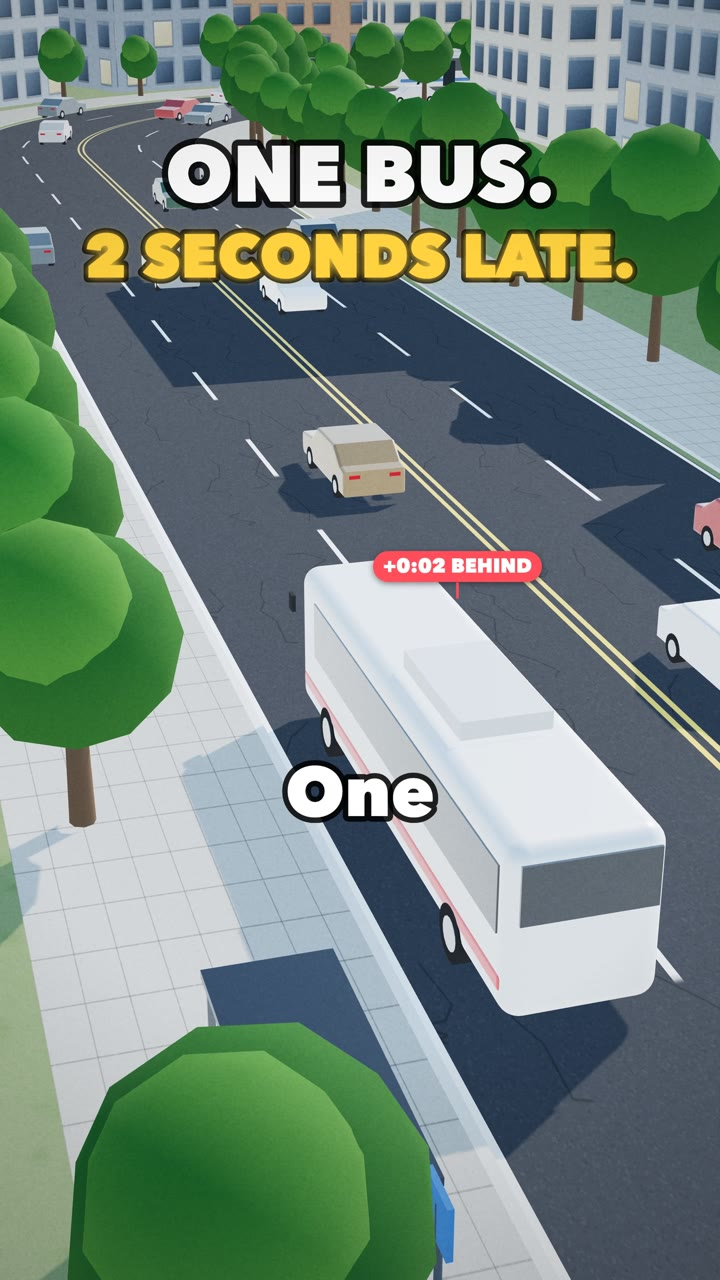
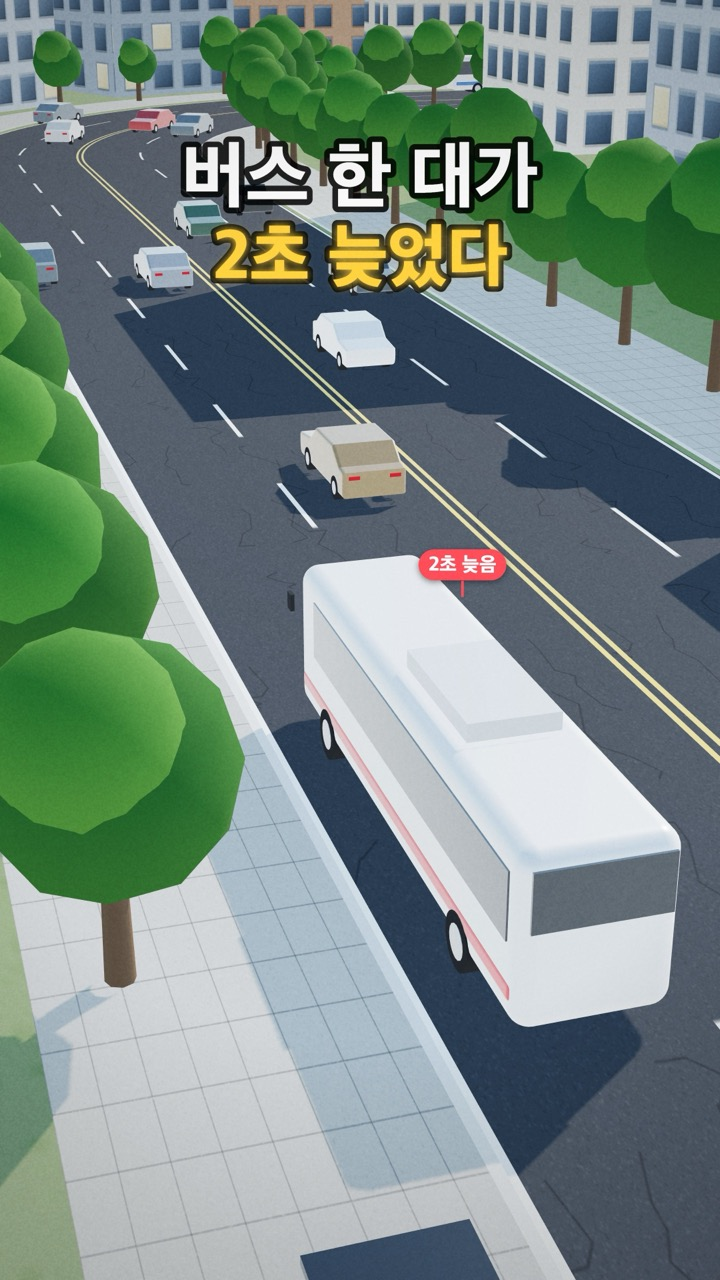
3편 그림 4장 한국어 장면으로(영어 단어 자막 없이), '6시간 뒤' 그림을 캡션과 맞춤

diff --git a/docs/essays/index.html b/docs/essays/index.html
@@ -3,7 +3,7 @@
 <meta property="og:title" content="작성 대기실 | 실험 뒤의 생각"><meta property="og:description" content="실험 뒤의 생각 · 작성 대기"><meta property="og:image" content="https://heekeunlee.github.io/simulatiolab_blog/img/qr/01-card.jpg"><meta property="og:type" content="article">
 <link rel="alternate" type="application/rss+xml" title="시뮬라티오 랩 블로그" href="../rss.xml">
 <link rel="preconnect" href="https://fonts.googleapis.com"><link href="https://fonts.googleapis.com/css2?family=Nanum+Myeongjo:wght@400;700;800&family=Nanum+Gothic:wght@400;700;800&display=swap" rel="stylesheet">
-<link rel="stylesheet" href="../style.css?v=202611201055"><meta name="robots" content="noindex,nofollow"></head><body>
+<link rel="stylesheet" href="../style.css?v=202611201059"><meta name="robots" content="noindex,nofollow"></head><body>
 <header class="top"><a class="brand" href="../"><span class="logo">S</span>시뮬라티오 랩 블로그</a><nav><a href="../">글 목록</a><a href="https://simulatiolab.com" target="_blank" rel="noopener">실험실</a><a href="https://www.youtube.com/@simulatiolab" target="_blank" rel="noopener">유튜브</a><a href="../dashboard.html">대시보드</a></nav></header>
 <main class="post"><div class="cat">네이버 블로그 카테고리 · 작성 대기실</div><h1>실험 뒤의 생각</h1><p class="sub">인문학적 메시지 · 일상 속 인사이트 · 작은 글, 큰 울림</p>
 <article id="body"><p>실험실 글이 "왜 그럴까"에 숫자로 답한다면, 이 칸은 그 답을 들고 한 걸음 더 들어간다. <b>그래서 우리는 어떻게 살아야 할까.</b> 숫자는 내려놓고, 사람과 역사와 오래된 책 속에서 같은 모양을 찾는다.</p>
@@ -15,4 +15,4 @@
 <ul><li>1,200~1,800자. 소제목 3~4개. 한 문장이 한 줄(네이버 옮기기에서 자동)</li><li>결론을 설교하지 않는다. <b>장면이나 혼잣말로 끝낸다</b></li><li>글 끝 가까이 오래 남을 한 문장(`!!`) 하나</li><li>마지막 줄은 실험 링크 하나로 조용히 연결</li></ul>
 <h3>올리는 법</h3>
 <ul><li>네이버 카테고리 <b>실험 뒤의 생각</b> · 주제 <b>일상·생각</b> · 주 1편</li><li>짝이 되는 실험 글이 공개된 <b>다음 날 21:00</b> 예약</li><li>태그: 인문학에세이, 일상철학, 생각, 에세이, 사상가·책 이름, 주제어, 실험뒤의생각, 시뮬라티오랩</li><li>이 칸의 글은 <b>네이버가 원본</b>이다. 깃허브 페이지는 대기실이라 검색엔진에 보이지 않게 둔다(noindex)</li></ul><h3>글 목록 (1/12)</h3><ol class="essays" style="list-style:none;padding:0"><li><b>1.</b> <a href="nobody/">아무도 잘못하지 않았는데, 왜 모두가 늦을까</a> <span class="ok">✍ 대기</span><br><small>짝 실험 글 <a href="../p/phantom-jam/">phantom-jam</a> · 범인 없는 손해 · 톨스토이 『전쟁과 평화』의 작은 의지들 · 아렌트 &#x27;아무도 아닌 자의 지배&#x27;</small></li><li><b>2.</b> 기록되지 않은 사람들 <span class="todo">· 아직</span><br><small>짝 실험 글 <a href="../p/survivor/">survivor</a> · 역사는 살아남은 쪽이 쓴다 · 이름 없는 무덤 · 실패담이 사라지는 세상에서 나를 덜 탓하기</small></li><li><b>3.</b> 함께 가려면 간격이 필요하다 <span class="todo">· 아직</span><br><small>짝 실험 글 <a href="../p/bus-bunching/">bus-bunching</a> · 쇼펜하우어의 고슴도치 · 너무 가까워서 함께 늦는 관계 · 거리를 두는 다정함</small></li><li><b>4.</b> 눈총이라는 보이지 않는 법 <span class="todo">· 아직</span><br><small>짝 실험 글 <a href="../p/queue/">queue</a> · 『논어』 부끄러움을 아는 다스림 · 법보다 먼저 있는 눈길 · 한 사람의 시선이 가진 힘</small></li><li><b>5.</b> 운을 실력으로 읽을 때 <span class="todo">· 아직</span><br><small>짝 실험 글 <a href="../p/regression/">regression</a> · 새옹지마 · 칭찬과 꾸중보다 오래 가는 것 · 좋은 날과 나쁜 날을 덜 믿기</small></li><li><b>6.</b> 천천히 서둘러라 <span class="todo">· 아직</span><br><small>짝 실험 글 <a href="../p/greenwave/">greenwave</a> · 페스티나 렌테 · 토끼와 거북 다시 읽기 · 빨리 가는 것과 멈추지 않는 것</small></li><li><b>7.</b> 충분히 좋은 것의 지혜 <span class="todo">· 아직</span><br><small>짝 실험 글 <a href="../p/secretary/">secretary</a> · 허버트 사이먼의 &#x27;만족하기&#x27; · 더 나은 것을 기다리다 놓치는 것들</small></li><li><b>8.</b> 가진 자는 더 받으리라 <span class="todo">· 아직</span><br><small>짝 실험 글 <a href="../p/wealth/">wealth</a> · 머튼이 이름 붙인 마태 효과 · 출발선의 작은 차이 · 운이 좋았다고 말할 줄 아는 사람</small></li><li><b>9.</b> 옆 줄은 언제나 빨라 보인다 <span class="todo">· 아직</span><br><small>짝 실험 글 <a href="../p/checkout/">checkout</a> · 남의 떡 · 비교하는 마음의 착시 · 내 줄에 머무는 연습</small></li><li><b>10.</b> 덜어 내야 나아지는 것들 <span class="todo">· 아직</span><br><small>짝 실험 글 <a href="../p/braess/">braess</a> · 생텍쥐페리의 &#x27;뺄 것이 없을 때&#x27; · 더하기만 하는 삶의 정체</small></li><li><b>11.</b> 조금씩 원했을 뿐인데 <span class="todo">· 아직</span><br><small>짝 실험 글 <a href="../p/schelling/">schelling</a> · 작은 선호가 쌓아 올린 담 · 끼리끼리의 편안함과 그 대가</small></li><li><b>12.</b> 모두가 피하면 모두가 몰린다 <span class="todo">· 아직</span><br><small>짝 실험 글 <a href="../p/bar/">bar</a> · 남과 다르게 생각한다는 착각 · 군중 속 혼자의 판단</small></li></ol></article></main><footer class="foot">시뮬라티오 랩 · Lab장 · <a href="https://simulatiolab.com" target="_blank" rel="noopener">simulatiolab.com</a> · <a href="../rss.xml">RSS</a></footer>
-<script src="../app.js?v=202611201055"></script></body></html>
+<script src="../app.js?v=202611201059"></script></body></html>

diff --git a/docs/essays/nobody/index.html b/docs/essays/nobody/index.html
@@ -3,7 +3,7 @@
 <meta property="og:title" content="아무도 잘못하지 않았는데, 왜 모두가 늦을까 — 톨스토이와 아렌트의 &#x27;아무도 아닌 자&#x27; | 실험 뒤의 생각"><meta property="og:description" content="실험 뒤의 생각 · 작성 대기"><meta property="og:image" content="https://heekeunlee.github.io/simulatiolab_blog/img/qr/01-card.jpg"><meta property="og:type" content="article">
 <link rel="alternate" type="application/rss+xml" title="시뮬라티오 랩 블로그" href="../../rss.xml">
 <link rel="preconnect" href="https://fonts.googleapis.com"><link href="https://fonts.googleapis.com/css2?family=Nanum+Myeongjo:wght@400;700;800&family=Nanum+Gothic:wght@400;700;800&display=swap" rel="stylesheet">
-<link rel="stylesheet" href="../../style.css?v=202611201055"><meta name="robots" content="noindex,nofollow"></head><body>
+<link rel="stylesheet" href="../../style.css?v=202611201059"><meta name="robots" content="noindex,nofollow"></head><body>
 <header class="top"><a class="brand" href="../../"><span class="logo">S</span>시뮬라티오 랩 블로그</a><nav><a href="../../">글 목록</a><a href="https://simulatiolab.com" target="_blank" rel="noopener">실험실</a><a href="https://www.youtube.com/@simulatiolab" target="_blank" rel="noopener">유튜브</a><a href="../../dashboard.html">대시보드</a></nav></header>
 <main class="post"><div class="sched">📝 대기 · 네이버 예약 2026-11-20 21:00</div>
 <div class="cat">실험 뒤의 생각 · 1편 · 짝 실험 글 <a href="../../p/phantom-jam/">phantom-jam</a></div>
@@ -95,4 +95,4 @@
 <p>다만 이것 하나는 기억하고 싶다. 내 반 박자가 어딘가에서 누군가의 기다림이 된다는 것. 그걸 알면 조금 덜 서두르게 되고, 조금 더 너그러워진다. 앞차의 머뭇거림에도 이유가 있었을 테니까.</p>
 <p class="pull">범인 없는 세상에서 우리가 할 수 있는 일은, 서로를 덜 탓하는 것이다.</p>
 <p>다음에 이유 없이 길이 막히면, 앞을 노려보는 대신 이렇게 생각해 보려 한다. 저 앞 어딘가에서 누군가 잠깐 망설였구나. 나도 그런 날이 있었지.</p></article><p class="sign">— Lab장</p></main><footer class="foot">시뮬라티오 랩 · Lab장 · <a href="https://simulatiolab.com" target="_blank" rel="noopener">simulatiolab.com</a> · <a href="../../rss.xml">RSS</a></footer>
-<script src="../../app.js?v=202611201055"></script></body></html>
+<script src="../../app.js?v=202611201059"></script></body></html>

diff --git a/docs/p/bus-bunching/index.html b/docs/p/bus-bunching/index.html
@@ -3,7 +3,7 @@
 <meta property="og:title" content="버스는 왜 꼭 두 대씩 같이 올까? — 2초 늦은 버스 한 대의 6시간 | 시뮬라티오 랩 블로그"><meta property="og:description" content="버스가 정류장에 섰다. 탈 사람은 다 탔다. 문도 닫혔다. 그런데 출발하지 않는다. 십 초. 이십 초. 나는 속으로 기사님을 재촉했다. 아니, 왜 안 가요. 약속 시간은 다가오고, 휴대폰 시계 숫자가 자꾸 커 보인다. 다른 승객들도 하나둘 창밖을 본다. 말은 없어도 다"><meta property="og:image" content="https://heekeunlee.github.io/simulatiolab_blog/img/03/convoy.jpg"><meta property="og:type" content="article">
 <link rel="alternate" type="application/rss+xml" title="시뮬라티오 랩 블로그" href="../../rss.xml">
 <link rel="preconnect" href="https://fonts.googleapis.com"><link href="https://fonts.googleapis.com/css2?family=Nanum+Myeongjo:wght@400;700;800&family=Nanum+Gothic:wght@400;700;800&display=swap" rel="stylesheet">
-<link rel="stylesheet" href="../../style.css?v=202611201055"></head><body>
+<link rel="stylesheet" href="../../style.css?v=202611201059"></head><body>
 <header class="top"><a class="brand" href="../../"><span class="logo">S</span>시뮬라티오 랩 블로그</a><nav><a href="../../">글 목록</a><a href="https://simulatiolab.com" target="_blank" rel="noopener">실험실</a><a href="https://www.youtube.com/@simulatiolab" target="_blank" rel="noopener">유튜브</a><a href="../../dashboard.html">대시보드</a></nav></header>
 
 <main class="post"><div class="sched">⏰ 예약 글 · 2026. 11. 21. (토) 공개 예정</div>
@@ -172,4 +172,4 @@ Photorealistic photo of a single city bus waiting at a quiet bus stop at dusk wi
 
 [b] 기다리던 버스가 두 대 나란히 들어오는 정류장
 Photorealistic photo of two city buses arriving one right behind the other at a city bus stop on a rainy evening, the first bus crowded, the second bus almost empty, wet reflective road, people waiting under the shelter seen from behind, no readable route numbers, no company logos, no readable text</textarea></section></main><footer class="foot">시뮬라티오 랩 · Lab장 · <a href="https://simulatiolab.com" target="_blank" rel="noopener">simulatiolab.com</a> · <a href="../../rss.xml">RSS</a></footer>
-<script src="../../app.js?v=202611201055"></script></body></html>
+<script src="../../app.js?v=202611201059"></script></body></html>

diff --git a/docs/p/wealth/index.html b/docs/p/wealth/index.html
@@ -3,7 +3,7 @@
 <meta property="og:title" content="모든 내기가 공평한데 왜 한 사람이 다 가질까(부의 쏠림) | 시뮬라티오 랩 블로그"><meta property="og:description" content="휴대폰이 짧게 울린다. 단톡방이다. 대학 동기 한 명이 새 아파트 거실 사진을 올렸다. 통창 너머로 강이 보인다. 축하한다는 말이 줄줄이 달린다. 나도 엄지 이모티콘 하나를 보탠다. 화면을 끄고 나서야 마음이 조금 이상해진다. 같은 해에 졸업했고, 비슷한 회사에 들어갔"><meta property="og:image" content="https://heekeunlee.github.io/simulatiolab_blog/img/08/end.jpg"><meta property="og:type" content="article">
 <link rel="alternate" type="application/rss+xml" title="시뮬라티오 랩 블로그" href="../../rss.xml">
 <link rel="preconnect" href="https://fonts.googleapis.com"><link href="https://fonts.googleapis.com/css2?family=Nanum+Myeongjo:wght@400;700;800&family=Nanum+Gothic:wght@400;700;800&display=swap" rel="stylesheet">
-<link rel="stylesheet" href="../../style.css?v=202611201055"></head><body>
+<link rel="stylesheet" href="../../style.css?v=202611201059"></head><body>
 <header class="top"><a class="brand" href="../../"><span class="logo">S</span>시뮬라티오 랩 블로그</a><nav><a href="../../">글 목록</a><a href="https://simulatiolab.com" target="_blank" rel="noopener">실험실</a><a href="https://www.youtube.com/@simulatiolab" target="_blank" rel="noopener">유튜브</a><a href="../../dashboard.html">대시보드</a></nav></header>
 
 <main class="post"><div class="sched">⏰ 예약 글 · 2026. 12. 3. (목) 공개 예정</div>
@@ -176,4 +176,4 @@ Photorealistic photo of a smartphone lying face up on a bedside table in a dark 
 
 [b] 사무실 책상 위, 큰 서류 더미와 얇은 서류 한 장이 나란히 놓인 모습
 Photorealistic photo of two neighboring office desks seen from above, one desk covered with a tall stack of project folders and a laptop, the other desk with only a single thin folder, soft daylight from a window, no people, no logos, no readable text</textarea></section></main><footer class="foot">시뮬라티오 랩 · Lab장 · <a href="https://simulatiolab.com" target="_blank" rel="noopener">simulatiolab.com</a> · <a href="../../rss.xml">RSS</a></footer>
-<script src="../../app.js?v=202611201055"></script></body></html>
+<script src="../../app.js?v=202611201059"></script></body></html>

diff --git a/docs/p/greenwave/index.html b/docs/p/greenwave/index.html
@@ -3,7 +3,7 @@
 <meta property="og:title" content="과속해도 왜 빨리 못 갈까 — 느린 차가 빠른 차를 이기는 길(녹색 물결 신호) | 시뮬라티오 랩 블로그"><meta property="og:description" content="초록불이 켜지는 순간, 옆 차선에서 엔진 소리가 터졌다. 으르릉. 검은 차 한 대가 튕겨 나가듯 앞으로 사라졌다. 나도 모르게 발에 힘이 들어갔다. 뒤처진 것 같았다. 아니, 실제로 뒤처졌다. 그 차의 미등은 금세 점이 되었고, 나는 평소 속도 그대로였다. 이상하게 지"><meta property="og:image" content="https://heekeunlee.github.io/simulatiolab_blog/img/06/race.jpg"><meta property="og:type" content="article">
 <link rel="alternate" type="application/rss+xml" title="시뮬라티오 랩 블로그" href="../../rss.xml">
 <link rel="preconnect" href="https://fonts.googleapis.com"><link href="https://fonts.googleapis.com/css2?family=Nanum+Myeongjo:wght@400;700;800&family=Nanum+Gothic:wght@400;700;800&display=swap" rel="stylesheet">
-<link rel="stylesheet" href="../../style.css?v=202611201055"></head><body>
+<link rel="stylesheet" href="../../style.css?v=202611201059"></head><body>
 <header class="top"><a class="brand" href="../../"><span class="logo">S</span>시뮬라티오 랩 블로그</a><nav><a href="../../">글 목록</a><a href="https://simulatiolab.com" target="_blank" rel="noopener">실험실</a><a href="https://www.youtube.com/@simulatiolab" target="_blank" rel="noopener">유튜브</a><a href="../../dashboard.html">대시보드</a></nav></header>
 
 <main class="post"><div class="sched">⏰ 예약 글 · 2026. 11. 28. (토) 공개 예정</div>
@@ -167,4 +167,4 @@ Photorealistic photo from a driver&#x27;s point of view on a wide straight city 
 
 [c] 아침 햇빛 속 조용한 교차로, 정지선 앞에 선 차 한 대
 Photorealistic photo of a quiet city intersection in soft morning light, a single car stopped at the stop line under a red traffic light while the road beyond is empty, calm mood, no readable license plates, no logos, no readable signs or text</textarea></section></main><footer class="foot">시뮬라티오 랩 · Lab장 · <a href="https://simulatiolab.com" target="_blank" rel="noopener">simulatiolab.com</a> · <a href="../../rss.xml">RSS</a></footer>
-<script src="../../app.js?v=202611201055"></script></body></html>
+<script src="../../app.js?v=202611201059"></script></body></html>

diff --git a/docs/p/bar/index.html b/docs/p/bar/index.html
@@ -3,7 +3,7 @@
 <meta property="og:title" content="붐빌까 봐 안 갔더니 텅 비었다 — 엘 파롤 바 문제 | 시뮬라티오 랩 블로그"><meta property="og:description" content="금요일 저녁 일곱 시. 소파에 기대 휴대폰을 든다. 오늘 그 동네에 작은 축제가 열린다. 가고 싶다. 그런데 손가락이 지도 앱 위에서 멈춘다. 분명 사람이 터져 나갈 거야. 줄 서다 지치고, 앉을 데도 없고, 사진에는 남의 뒤통수만 찍히겠지. 한참 망설이다 결국 배달 "><meta property="og:image" content="https://heekeunlee.github.io/simulatiolab_blog/img/12/weeks.jpg"><meta property="og:type" content="article">
 <link rel="alternate" type="application/rss+xml" title="시뮬라티오 랩 블로그" href="../../rss.xml">
 <link rel="preconnect" href="https://fonts.googleapis.com"><link href="https://fonts.googleapis.com/css2?family=Nanum+Myeongjo:wght@400;700;800&family=Nanum+Gothic:wght@400;700;800&display=swap" rel="stylesheet">
-<link rel="stylesheet" href="../../style.css?v=202611201055"></head><body>
+<link rel="stylesheet" href="../../style.css?v=202611201059"></head><body>
 <header class="top"><a class="brand" href="../../"><span class="logo">S</span>시뮬라티오 랩 블로그</a><nav><a href="../../">글 목록</a><a href="https://simulatiolab.com" target="_blank" rel="noopener">실험실</a><a href="https://www.youtube.com/@simulatiolab" target="_blank" rel="noopener">유튜브</a><a href="../../dashboard.html">대시보드</a></nav></header>
 
 <main class="post"><div class="sched">⏰ 예약 글 · 2026. 12. 12. (토) 공개 예정</div>
@@ -195,4 +195,4 @@ Photorealistic photo of a long line of travelers waiting outside a highway rest 
 
 [c] 저녁 축제 거리, 따뜻한 전구 조명 아래 걸어가는 뒷모습
 Photorealistic photo of an evening street festival with warm string lights overhead and food stalls, a person walking toward it seen from behind, a moderate crowd softly blurred, cozy and hopeful mood, faces not identifiable, no logos, no readable signs or text</textarea></section></main><footer class="foot">시뮬라티오 랩 · Lab장 · <a href="https://simulatiolab.com" target="_blank" rel="noopener">simulatiolab.com</a> · <a href="../../rss.xml">RSS</a></footer>
-<script src="../../app.js?v=202611201055"></script></body></html>
+<script src="../../app.js?v=202611201059"></script></body></html>

diff --git a/docs/p/braess/index.html b/docs/p/braess/index.html
@@ -3,7 +3,7 @@
 <meta property="og:title" content="도로를 새로 뚫었는데 왜 더 막힐까(브라에스 역설) | 시뮬라티오 랩 블로그"><meta property="og:description" content="출근길 사거리에 현수막이 걸렸다. &quot;○○ 연결도로 개통.&quot; 몇 년 동안 펜스 너머로 공사 소리만 들리던 곳이다. 개통 날 아침, 내비게이션이 낯선 목소리로 말했다. &quot;새로운 경로가 있습니다.&quot; 화면에 처음 보는 파란 선이 그어졌다. 괜히 설렜다. 이제 십 분은 일찍 도"><meta property="og:image" content="https://heekeunlee.github.io/simulatiolab_blog/img/10/after.jpg"><meta property="og:type" content="article">
 <link rel="alternate" type="application/rss+xml" title="시뮬라티오 랩 블로그" href="../../rss.xml">
 <link rel="preconnect" href="https://fonts.googleapis.com"><link href="https://fonts.googleapis.com/css2?family=Nanum+Myeongjo:wght@400;700;800&family=Nanum+Gothic:wght@400;700;800&display=swap" rel="stylesheet">
-<link rel="stylesheet" href="../../style.css?v=202611201055"></head><body>
+<link rel="stylesheet" href="../../style.css?v=202611201059"></head><body>
 <header class="top"><a class="brand" href="../../"><span class="logo">S</span>시뮬라티오 랩 블로그</a><nav><a href="../../">글 목록</a><a href="https://simulatiolab.com" target="_blank" rel="noopener">실험실</a><a href="https://www.youtube.com/@simulatiolab" target="_blank" rel="noopener">유튜브</a><a href="../../dashboard.html">대시보드</a></nav></header>
 
 <main class="post"><div class="sched">⏰ 예약 글 · 2026. 12. 8. (화) 공개 예정</div>
@@ -187,4 +187,4 @@ Photorealistic photo of a busy office desk at evening, a laptop screen glowing w
 
 [c] 햇볕에 바랜 현수막이 걸린 아침 사거리
 Photorealistic photo of a city intersection in the morning with a sun-faded blank banner hanging on a fence, cars waiting at a red light, calm everyday mood, the banner text completely faded and unreadable, no logos, no readable signs or license plates</textarea></section></main><footer class="foot">시뮬라티오 랩 · Lab장 · <a href="https://simulatiolab.com" target="_blank" rel="noopener">simulatiolab.com</a> · <a href="../../rss.xml">RSS</a></footer>
-<script src="../../app.js?v=202611201055"></script></body></html>
+<script src="../../app.js?v=202611201059"></script></body></html>

diff --git a/docs/p/survivor/index.html b/docs/p/survivor/index.html
@@ -3,7 +3,7 @@
 <meta property="og:title" content="성공한 사람 말만 들으면 속는 이유 — 돌아온 폭격기의 총알 구멍(생존자 편향) | 시뮬라티오 랩 블로그"><meta property="og:description" content="성공한 사람의 이야기를 들으면 마음이 두 갈래로 갈라진다. 하나는 &quot;나도 저렇게 하면 되겠구나&quot; 하는 설렘. 다른 하나는 &quot;나는 왜 아직 저기까지 못 갔지&quot; 하는 조급함. 새벽 다섯 시에 일어났다는 사람. 하루도 빠짐없이 썼다는 사람. 모두가 말려도 버텼다는 사람. 이"><meta property="og:image" content="https://heekeunlee.github.io/simulatiolab_blog/img/02/plane.jpg"><meta property="og:type" content="article">
 <link rel="alternate" type="application/rss+xml" title="시뮬라티오 랩 블로그" href="../../rss.xml">
 <link rel="preconnect" href="https://fonts.googleapis.com"><link href="https://fonts.googleapis.com/css2?family=Nanum+Myeongjo:wght@400;700;800&family=Nanum+Gothic:wght@400;700;800&display=swap" rel="stylesheet">
-<link rel="stylesheet" href="../../style.css?v=202611201055"></head><body>
+<link rel="stylesheet" href="../../style.css?v=202611201059"></head><body>
 <header class="top"><a class="brand" href="../../"><span class="logo">S</span>시뮬라티오 랩 블로그</a><nav><a href="../../">글 목록</a><a href="https://simulatiolab.com" target="_blank" rel="noopener">실험실</a><a href="https://www.youtube.com/@simulatiolab" target="_blank" rel="noopener">유튜브</a><a href="../../dashboard.html">대시보드</a></nav></header>
 
 <main class="post">
@@ -215,4 +215,4 @@ Photorealistic photo of a small phone repair shop counter with a row of smartpho
 
 [c] 붐비는 오래된 맛집 골목 사이, 셔터가 내려간 빈 가게 하나
 Photorealistic evening photo of a narrow old restaurant alley in Seoul, warm lights and customers at busy restaurants, and one shop in between with its metal shutter closed and an empty storefront, signs blurred or unreadable, faces not identifiable, no logos</textarea></section></main><footer class="foot">시뮬라티오 랩 · Lab장 · <a href="https://simulatiolab.com" target="_blank" rel="noopener">simulatiolab.com</a> · <a href="../../rss.xml">RSS</a></footer>
-<script src="../../app.js?v=202611201055"></script></body></html>
+<script src="../../app.js?v=202611201059"></script></body></html>

diff --git a/docs/p/queue/index.html b/docs/p/queue/index.html
@@ -3,7 +3,7 @@
 <meta property="og:title" content="새치기가 이득인데 왜 다들 안 할까? — 2,500명 실험이 보여 준 눈총의 힘 | 시뮬라티오 랩 블로그"><meta property="og:description" content="저녁 마트 계산대. 장바구니 손잡이가 손가락을 파고든다. 앞에는 세 사람. 삑, 삑, 바코드 찍히는 소리만 규칙적으로 들린다. 그때 누군가 옆에서 &quot;잠깐만요&quot; 하더니, 내 앞으로 쓱 들어선다. 손에는 우유 하나. 얼굴이 확 달아올랐다. 저기요, 줄 서 있는데요. 그 한"><meta property="og:image" content="https://heekeunlee.github.io/simulatiolab_blog/img/04/explode.jpg"><meta property="og:type" content="article">
 <link rel="alternate" type="application/rss+xml" title="시뮬라티오 랩 블로그" href="../../rss.xml">
 <link rel="preconnect" href="https://fonts.googleapis.com"><link href="https://fonts.googleapis.com/css2?family=Nanum+Myeongjo:wght@400;700;800&family=Nanum+Gothic:wght@400;700;800&display=swap" rel="stylesheet">
-<link rel="stylesheet" href="../../style.css?v=202611201055"></head><body>
+<link rel="stylesheet" href="../../style.css?v=202611201059"></head><body>
 <header class="top"><a class="brand" href="../../"><span class="logo">S</span>시뮬라티오 랩 블로그</a><nav><a href="../../">글 목록</a><a href="https://simulatiolab.com" target="_blank" rel="noopener">실험실</a><a href="https://www.youtube.com/@simulatiolab" target="_blank" rel="noopener">유튜브</a><a href="../../dashboard.html">대시보드</a></nav></header>
 
 <main class="post"><div class="sched">⏰ 예약 글 · 2026. 11. 24. (화) 공개 예정</div>
@@ -207,4 +207,4 @@ Photorealistic photo of a Korean company dinner table at night, close-up on one 
 
 [c] 바닥의 줄 서기 표시선과 그 뒤로 가지런히 선 발들
 Photorealistic low-angle photo of a floor queue marking line at a store counter, with several pairs of shoes standing neatly in a row behind it, soft daylight, calm orderly mood, no faces, no logos, no readable text</textarea></section></main><footer class="foot">시뮬라티오 랩 · Lab장 · <a href="https://simulatiolab.com" target="_blank" rel="noopener">simulatiolab.com</a> · <a href="../../rss.xml">RSS</a></footer>
-<script src="../../app.js?v=202611201055"></script></body></html>
+<script src="../../app.js?v=202611201059"></script></body></html>

diff --git a/docs/p/schelling/index.html b/docs/p/schelling/index.html
@@ -3,7 +3,7 @@
 <meta property="og:title" content="아무도 원하지 않았는데 동네가 갈라지는 이유(셸링 분리 모델) | 시뮬라티오 랩 블로그"><meta property="og:description" content="새 학기 첫날 급식실은 시끄럽다. 식판이 부딪히는 소리, 의자 끄는 소리. 그 소리 한가운데서 식판을 들고 서 있던 몇 초를, 누구나 한 번쯤 기억한다. 어디에 앉지. 그날은 아무 데나 앉았다. 처음 보는 얼굴들 사이에 끼어 앉아도 어색하지 않았다. 모두가 처음이었으니"><meta property="og:image" content="https://heekeunlee.github.io/simulatiolab_blog/img/11/split.jpg"><meta property="og:type" content="article">
 <link rel="alternate" type="application/rss+xml" title="시뮬라티오 랩 블로그" href="../../rss.xml">
 <link rel="preconnect" href="https://fonts.googleapis.com"><link href="https://fonts.googleapis.com/css2?family=Nanum+Myeongjo:wght@400;700;800&family=Nanum+Gothic:wght@400;700;800&display=swap" rel="stylesheet">
-<link rel="stylesheet" href="../../style.css?v=202611201055"></head><body>
+<link rel="stylesheet" href="../../style.css?v=202611201059"></head><body>
 <header class="top"><a class="brand" href="../../"><span class="logo">S</span>시뮬라티오 랩 블로그</a><nav><a href="../../">글 목록</a><a href="https://simulatiolab.com" target="_blank" rel="noopener">실험실</a><a href="https://www.youtube.com/@simulatiolab" target="_blank" rel="noopener">유튜브</a><a href="../../dashboard.html">대시보드</a></nav></header>
 
 <main class="post"><div class="sched">⏰ 예약 글 · 2026. 12. 10. (목) 공개 예정</div>
@@ -187,4 +187,4 @@ Photorealistic close-up photo of a hand holding a smartphone in a dark room at n
 
 [c] 텅 빈 급식실 긴 테이블 위에 나란히 놓인 두 개의 식판
 Photorealistic photo of an empty school cafeteria after lunch, two food trays placed side by side at the end of a long table, soft afternoon light through the windows, quiet and warm mood, no people, no logos, no readable text</textarea></section></main><footer class="foot">시뮬라티오 랩 · Lab장 · <a href="https://simulatiolab.com" target="_blank" rel="noopener">simulatiolab.com</a> · <a href="../../rss.xml">RSS</a></footer>
-<script src="../../app.js?v=202611201055"></script></body></html>
+<script src="../../app.js?v=202611201059"></script></body></html>

diff --git a/docs/p/secretary/index.html b/docs/p/secretary/index.html
@@ -3,7 +3,7 @@
 <meta property="og:title" content="언제 결정해야 후회가 적을까 — 연애·면접·집 구하기의 37% 법칙(최적 멈춤) | 시뮬라티오 랩 블로그"><meta property="og:description" content="중개사님의 열쇠 꾸러미가 짤랑거린다. 오늘 보는 집만 벌써 네 번째. 신발을 벗고 들어서자 오후 햇빛이 거실 바닥에 길게 누워 있다. 창밖으로 나무가 보인다. 마음이 먼저 &quot;여기다&quot; 하고 말한다. 그런데 입은 다르게 말한다. &quot;조금만 더 보고 연락드릴게요.&quot; 이사 날짜"><meta property="og:image" content="https://heekeunlee.github.io/simulatiolab_blog/img/07/curve.jpg"><meta property="og:type" content="article">
 <link rel="alternate" type="application/rss+xml" title="시뮬라티오 랩 블로그" href="../../rss.xml">
 <link rel="preconnect" href="https://fonts.googleapis.com"><link href="https://fonts.googleapis.com/css2?family=Nanum+Myeongjo:wght@400;700;800&family=Nanum+Gothic:wght@400;700;800&display=swap" rel="stylesheet">
-<link rel="stylesheet" href="../../style.css?v=202611201055"></head><body>
+<link rel="stylesheet" href="../../style.css?v=202611201059"></head><body>
 <header class="top"><a class="brand" href="../../"><span class="logo">S</span>시뮬라티오 랩 블로그</a><nav><a href="../../">글 목록</a><a href="https://simulatiolab.com" target="_blank" rel="noopener">실험실</a><a href="https://www.youtube.com/@simulatiolab" target="_blank" rel="noopener">유튜브</a><a href="../../dashboard.html">대시보드</a></nav></header>
 
 <main class="post"><div class="sched">⏰ 예약 글 · 2026. 12. 1. (화) 공개 예정</div>
@@ -187,4 +187,4 @@ Photorealistic close-up photo of an open paper notebook with handwritten notes a
 
 [c] 새 집 현관에서 열쇠를 건네받는 손
 Photorealistic close-up photo of one hand passing a door key to another hand at the entrance of an apartment, soft hallway light, shallow depth of field, hopeful mood, faces not visible, no logos, no readable text</textarea></section></main><footer class="foot">시뮬라티오 랩 · Lab장 · <a href="https://simulatiolab.com" target="_blank" rel="noopener">simulatiolab.com</a> · <a href="../../rss.xml">RSS</a></footer>
-<script src="../../app.js?v=202611201055"></script></body></html>
+<script src="../../app.js?v=202611201059"></script></body></html>

diff --git a/docs/p/regression/index.html b/docs/p/regression/index.html
@@ -3,7 +3,7 @@
 <meta property="og:title" content="칭찬하면 못하고 혼내면 잘하는 진짜 이유(평균으로의 회귀) | 시뮬라티오 랩 블로그"><meta property="og:description" content="아이가 받아쓰기 백 점을 받아 오면, 그 종이는 냉장고 문으로 간다. 자석 두 개로 반듯하게 붙인다. 오늘은 치킨이다. 잘했다는 말이 몇 번이고 나온다. 그리고 다음 주. 가방에서 꺼낸 종이에는 칠십 점이 적혀 있다. 이상하게 서운하다. 칭찬을 그렇게 해 줬는데. 그 "><meta property="og:image" content="https://heekeunlee.github.io/simulatiolab_blog/img/05/crowd.jpg"><meta property="og:type" content="article">
 <link rel="alternate" type="application/rss+xml" title="시뮬라티오 랩 블로그" href="../../rss.xml">
 <link rel="preconnect" href="https://fonts.googleapis.com"><link href="https://fonts.googleapis.com/css2?family=Nanum+Myeongjo:wght@400;700;800&family=Nanum+Gothic:wght@400;700;800&display=swap" rel="stylesheet">
-<link rel="stylesheet" href="../../style.css?v=202611201055"></head><body>
+<link rel="stylesheet" href="../../style.css?v=202611201059"></head><body>
 <header class="top"><a class="brand" href="../../"><span class="logo">S</span>시뮬라티오 랩 블로그</a><nav><a href="../../">글 목록</a><a href="https://simulatiolab.com" target="_blank" rel="noopener">실험실</a><a href="https://www.youtube.com/@simulatiolab" target="_blank" rel="noopener">유튜브</a><a href="../../dashboard.html">대시보드</a></nav></header>
 
 <main class="post"><div class="sched">⏰ 예약 글 · 2026. 11. 26. (목) 공개 예정</div>
@@ -187,4 +187,4 @@ Photorealistic photo of a person seen from behind sitting on a sofa and holding 
 
 [c] 나란히 붙은 시험지 두 장과 자석
 Photorealistic photo of two children&#x27;s test papers side by side on a refrigerator door, each held by colorful magnets, warm and gentle evening light, the writing blurred and unreadable, cozy kitchen mood, no faces, no logos</textarea></section></main><footer class="foot">시뮬라티오 랩 · Lab장 · <a href="https://simulatiolab.com" target="_blank" rel="noopener">simulatiolab.com</a> · <a href="../../rss.xml">RSS</a></footer>
-<script src="../../app.js?v=202611201055"></script></body></html>
+<script src="../../app.js?v=202611201059"></script></body></html>
